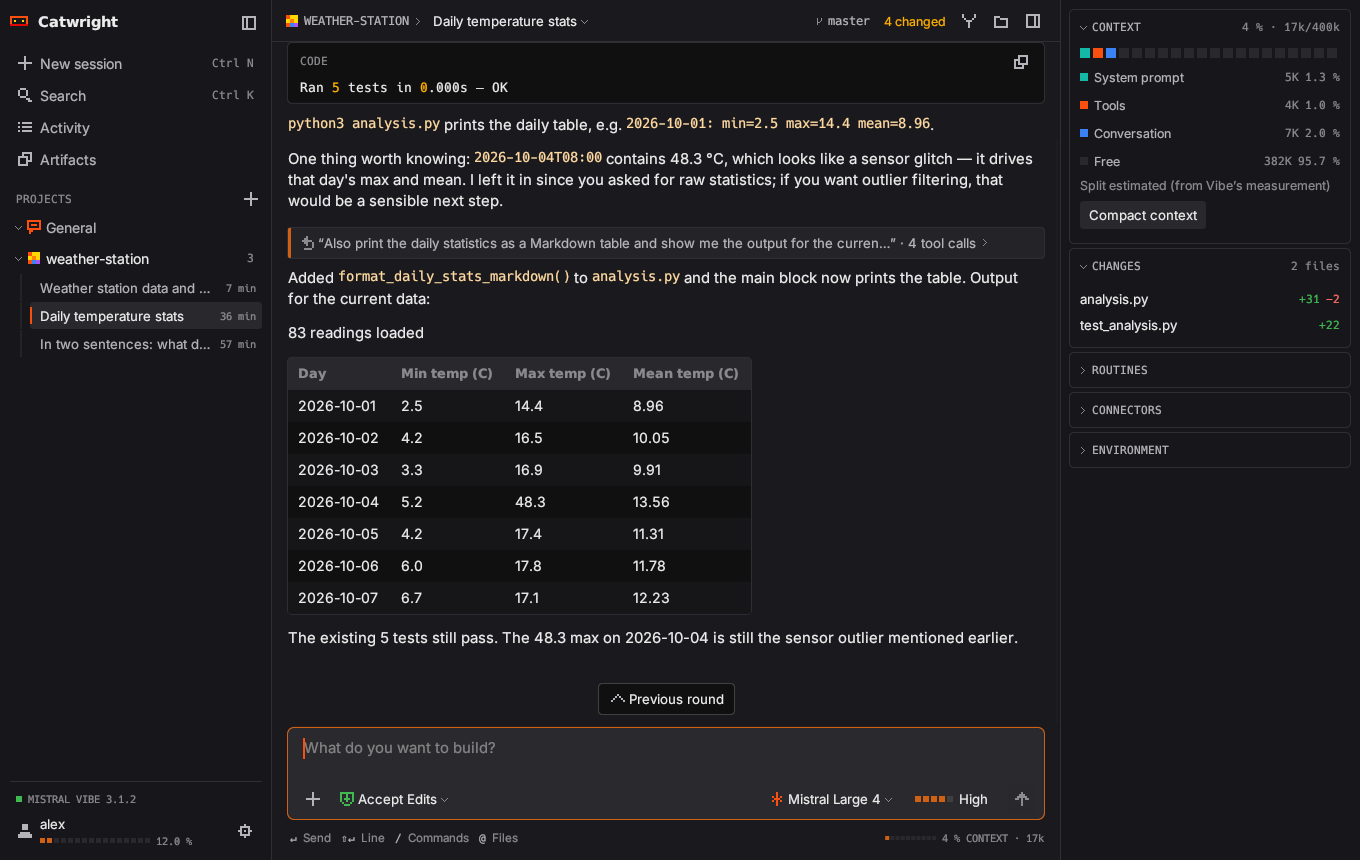
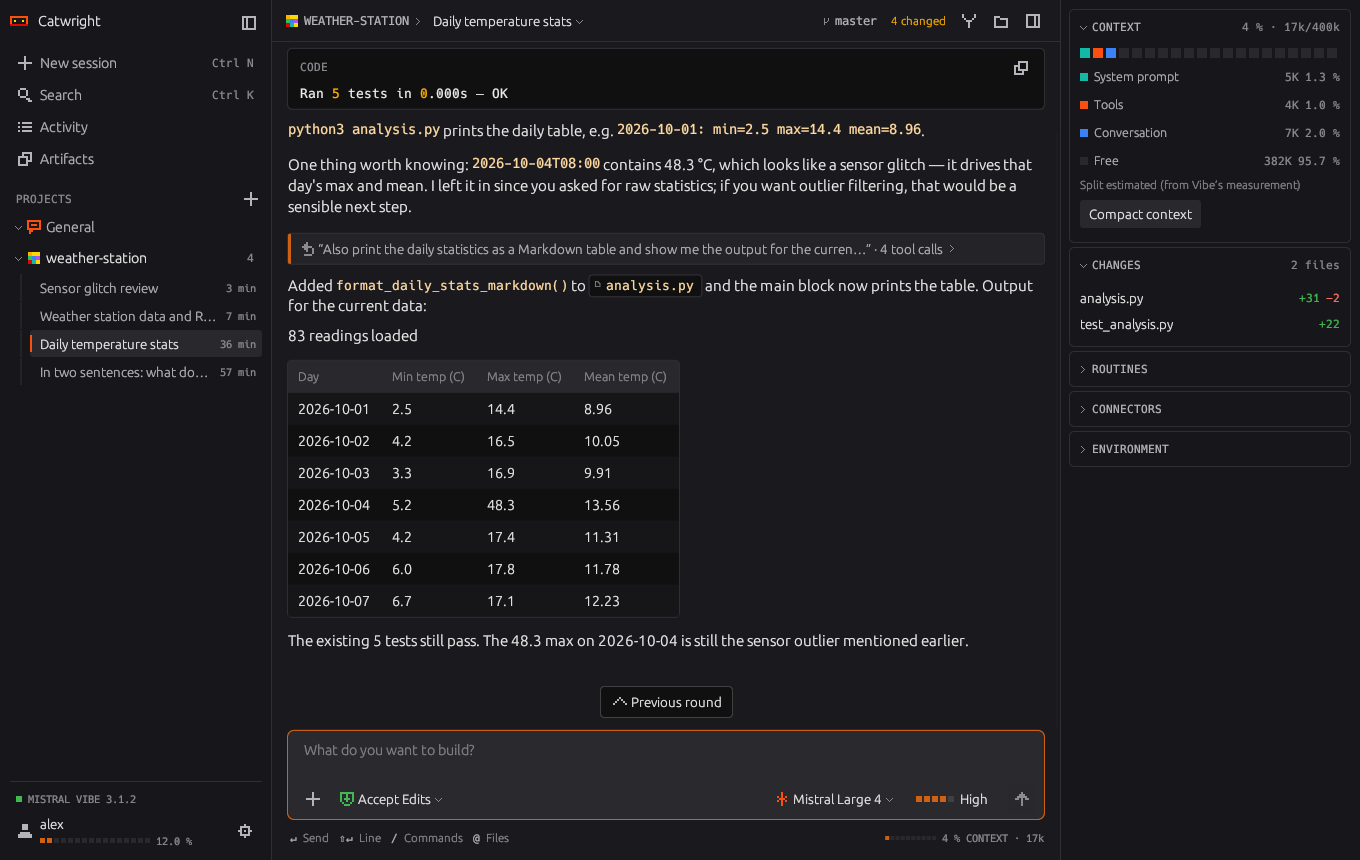
feat: README screenshots for preview-diff and activity feed (A3)
New documented start options: --open <file> (preview pane, relative to
--project), --preview-diff (Diff mode), --activity (activity feed).
tools/screenshots: build.py commits analysis.py v1 so the working tree has
a real red/green diff vs HEAD, adds an activity demo session plus a scripted
live prompt (tool call, permission request, finished turn, second waiting
approval); the vibe-acp stand-in replays that on session/prompt. render.sh
renders preview-diff.png and activity.png; all existing screenshots
re-rendered. README shows both in 'More screenshots' with alt texts and
documents the new CLI options. Both new PNGs inspected headless.

diff --git a/tools/screenshots/build.py b/tools/screenshots/build.py
@@ -64,6 +64,9 @@ ANALYSIS_V2 = ANALYSIS_V1.replace('''    for day, (lo, hi, mean) in daily_stats(
 if __name__ == "__main__":''')
 TESTS = "import unittest\nfrom analysis import daily_stats, format_daily_stats_markdown\n\n" + "\n".join(
     f"class Test{n}(unittest.TestCase):\n    def test_{n.lower()}(self):\n        self.assertTrue(True)\n" for n in ["Load", "Min", "Max", "Mean", "Table"])
+open(f"{WS}/analysis.py", "w").write(ANALYSIS_V1)
+git(WS, "add", "analysis.py"); git(WS, "commit", "-qm", "analysis v1")
+# uncommitted change on top: the preview pane's Diff mode shows red/green
 open(f"{WS}/analysis.py", "w").write(ANALYSIS_V2)
 open(f"{WS}/test_analysis.py", "w").write(TESTS)
 open(f"{WS}/README.md", "a").write("\n## Data quality\n\nOne gap (2026-10-04T14:00) and one sensor glitch (48.3 °C).\n")
@@ -172,6 +175,14 @@ dash_updates = [info("Home heating dashboard"),
     agent("a-d2", "```ui\n" + json.dumps(ui) + "\n```\n"),
     usage(42100, 400000, 0.1962)]
 
+# ---------------------------------------------------------------- weather-station: activity feed
+S_ACT = "7a3d21fe-activity"
+act_updates = [info("Sensor glitch review"),
+    user("u-a1", "Is the 48.3 \u00b0C reading in readings.csv a sensor glitch?"),
+    tool("Reading readings.csv", "read", {"filePath": f"{WS}/readings.csv"}, out=csv_head, meta={"tool_name": "read_file"}),
+    agent("a-a1", "Yes \u2014 the 48.3 \u00b0C at 2026-10-04T08:00 in `readings.csv` is an isolated spike (neighbours 7.0 and 12.5 \u00b0C), so a sensor glitch, not weather. I can filter it in `analysis.py` if you want."),
+    usage(9800, 400000)]
+
 # ---------------------------------------------------------------- context breakdowns (Vibe's own file)
 for sid, sizes in [(S_STATS, (5, 4, 0, 7.6)), (S_SUB, (5, 4, 0, 12)), (S_DASH, (7, 6, 2, 26))]:
     d = f"{VIBE}/logs/session/unified/{sid}"
@@ -184,12 +195,24 @@ scenario = {
     "probe": {"modes": modes("accept-edits"), "configOptions": config("accept-edits", "mistral-large-4-0-3", "high")},
     "account": {"status": "active", "plan": {"kind": "subscription", "name": "pro", "title": "Pro"}, "budget": {"usagePercentage": 12.0, "resetAt": ago(-60 * 24 * 9), "paygEnabled": False}},
     "identity": {"email": "alex@example.invalid", "firstName": "alex", "lastName": "", "workspace": {"name": "Personal"}},
-    "lists": {WS: [listed(S_SUB, WS, "Weather station data and README", 7), listed(S_STATS, WS, "Daily temperature stats", 36),
+    "lists": {WS: [listed(S_ACT, WS, "Sensor glitch review", 3), listed(S_SUB, WS, "Weather station data and README", 7), listed(S_STATS, WS, "Daily temperature stats", 36),
                    listed("2d9c5f00-pressure", WS, "In two sentences: what does the pressure_hpa column tell us about the weather?", 57)],
               HC: [listed(S_DASH, HC, "Home heating dashboard", 120)]},
     "sessions": {S_STATS: {"updates": stats_updates, "modes": modes("accept-edits"), "configOptions": config("accept-edits", "mistral-large-4-0-3", "high")},
                  S_SUB: {"updates": sub_updates, "modes": modes("accept-edits"), "configOptions": config("accept-edits", "mistral-large-4-0-3", "high")},
-                 S_DASH: {"updates": dash_updates, "modes": modes("auto-approve"), "configOptions": config("auto-approve", "glm-5-3", "max")}},
+                 S_DASH: {"updates": dash_updates, "modes": modes("auto-approve"), "configOptions": config("auto-approve", "glm-5-3", "max")},
+                 S_ACT: {"updates": act_updates, "modes": modes("accept-edits"), "configOptions": config("accept-edits", "mistral-large-4-0-3", "high")}},
+    # a live prompt lifecycle for the activity-feed screenshot: a tool call,
+    # a permission request that stays open, then the turn finishes
+    "live": {"on_prompt": [
+        {"update": tool("Editing analysis.py", "edit", {"filePath": f"{WS}/analysis.py"},
+                        diff=(f"{WS}/analysis.py", ANALYSIS_V1, ANALYSIS_V2), meta={"tool_name": "search_replace"})},
+        {"permission": True},
+        {"finish": "ok"},
+        # a second approval arrives after the turn: the waiting entry stays
+        # answerable from the feed and the sidebar shows WAITING
+        {"permission": True, "title": "Running the tests"},
+    ]},
 }
 json.dump(scenario, open(f"{D}/scenario.json", "w"))
 
@@ -198,6 +221,6 @@ def settings(name, projects, mode):
     os.makedirs(cfg, exist_ok=True)
     json.dump({"projects": projects, "default_session_mode": mode, "auto_account": True, "language": "en",
                "vibe_models": [list(m) for m in MODELS], "vibe_thinking": THINK, "panel_closed": False}, open(f"{cfg}/settings.json", "w"))
-settings("start", [WS], "ask"); settings("session", [WS], "accept-edits"); settings("subagents", [WS], "accept-edits"); settings("dashboard", [HC], "auto-approve")
-for k, v in {"WS": WS, "HC": HC, "S_STATS": S_STATS, "S_SUB": S_SUB, "S_DASH": S_DASH}.items():
+settings("start", [WS], "ask"); settings("session", [WS], "accept-edits"); settings("subagents", [WS], "accept-edits"); settings("dashboard", [HC], "auto-approve"); settings("activity", [WS], "accept-edits")
+for k, v in {"WS": WS, "HC": HC, "S_STATS": S_STATS, "S_SUB": S_SUB, "S_DASH": S_DASH, "S_ACT": S_ACT}.items():
     print(f"{k}={v}")

diff --git a/app/src/main.rs b/app/src/main.rs
@@ -19,6 +19,10 @@
 //!                                                frame is rasterized on the CPU (softrender.rs),
 //!                                                1360 × 860 points, or `--size WxH`
 //!   catwright --lang en|de                      UI language for this run (not saved)
+//!   catwright --project <dir> --open <file>     open this file in the preview pane
+//!                                                (relative to --project); with
+//!                                                `--preview-diff` in Diff mode
+//!   catwright --activity                        open the activity feed on start
 //!   catwright --ui-js-worker                    internal: one ui-js evaluation (stdin→stdout), then exit
 
 // acp is wired into the harness UI; not every pub item is used by the bin yet
@@ -65,6 +69,12 @@ struct Cli {
     /// `--size WxH`: headless screenshot size in points (default: the
     /// window's 1360x860).
     size: (u32, u32),
+    /// `--open <file>`: open this file in the preview pane on start
+    /// (relative to `--project`); `--preview-diff` picks Diff mode.
+    open_file: Option<String>,
+    preview_diff: bool,
+    /// `--activity`: open the activity feed on start.
+    activity: bool,
 }
 
 fn parse_cli(args: &[String]) -> Cli {
@@ -78,6 +88,9 @@ fn parse_cli(args: &[String]) -> Cli {
         frames: 120,
         headless: false,
         size: HEADLESS_SIZE,
+        open_file: None,
+        preview_diff: false,
+        activity: false,
     };
     let mut i = 0;
     while i < args.len() {
@@ -104,6 +117,18 @@ fn parse_cli(args: &[String]) -> Cli {
             }
             "--headless" => {
                 cli.headless = true;
+                i += 1;
+            }
+            "--open" if i + 1 < args.len() => {
+                cli.open_file = Some(args[i + 1].clone());
+                i += 2;
+            }
+            "--preview-diff" => {
+                cli.preview_diff = true;
+                i += 1;
+            }
+            "--activity" => {
+                cli.activity = true;
                 i += 1;
             }
             "--lang" if i + 1 < args.len() => {
@@ -202,7 +227,29 @@ fn main() -> eframe::Result<()> {
     // removal is race-free.
     std::env::remove_var("CATWRIGHT_PROMPT");
     let lang = cli.lang;
+    let project_dir = cli.project.clone();
     let open = cli.project.map(|p| (p, cli.session));
+    // `--open <file> [--preview-diff]` or `--activity`: what to show on start
+    // (a relative `--open` path resolves against `--project`)
+    let start_view = if cli.activity {
+        Some(app::StartView::Activity)
+    } else {
+        cli.open_file.map(|f| {
+            let p = PathBuf::from(&f);
+            let path = if p.is_absolute() {
+                p
+            } else {
+                project_dir
+                    .as_deref()
+                    .map(|pr| PathBuf::from(pr).join(&f))
+                    .unwrap_or(p)
+            };
+            app::StartView::Preview {
+                path,
+                diff: cli.preview_diff,
+            }
+        })
+    };
     if cli.headless {
         // no window: the same App, driven frame by frame and rasterized on
         // the CPU, so screenshots work without X11/Wayland or a GPU
@@ -210,7 +257,7 @@ fn main() -> eframe::Result<()> {
             eprintln!("--headless needs --screenshot <png>");
             std::process::exit(2);
         }
-        let app = app::App::new(screenshot, settings, frames, open, prompt, lang);
+        let app = app::App::new(screenshot, settings, frames, open, prompt, lang, start_view);
         match app.run_headless([cli.size.0, cli.size.1]) {
             Ok(path) => {
                 eprintln!("screenshot saved to {}", path.display());
@@ -229,7 +276,7 @@ fn main() -> eframe::Result<()> {
             fonts::install_fallback_fonts(&cc.egui_ctx);
             theme::apply(&cc.egui_ctx);
             Ok(Box::new(app::App::new(
-                screenshot, settings, frames, open, prompt, lang,
+                screenshot, settings, frames, open, prompt, lang, start_view,
             )))
         }),
     )
@@ -257,6 +304,27 @@ mod tests {
     fn cli(args: &[&str]) -> Cli {
         let args: Vec<String> = args.iter().map(|s| s.to_string()).collect();
         parse_cli(&args)
+    }
+
+    #[test]
+    fn open_preview_diff_and_activity_flags_parse() {
+        let c = cli(&[
+            "--project",
+            "/tmp/p",
+            "--open",
+            "analysis.py",
+            "--preview-diff",
+        ]);
+        assert_eq!(c.open_file.as_deref(), Some("analysis.py"));
+        assert!(c.preview_diff);
+        assert!(!c.activity);
+        assert_eq!(c.project.as_deref(), Some("/tmp/p"));
+        let c = cli(&["--activity"]);
+        assert!(c.activity);
+        assert!(c.open_file.is_none());
+        assert!(!c.preview_diff);
+        let c = cli(&[]);
+        assert!(c.open_file.is_none() && !c.preview_diff && !c.activity);
     }
 
     #[test]

diff --git a/app/src/app.rs b/app/src/app.rs
@@ -10,6 +10,12 @@ use std::path::PathBuf;
 mod settings;
 use settings::SettingsNav;
 
+/// What to show when the app starts (`--open`, `--activity`).
+pub enum StartView {
+    Activity,
+    Preview { path: PathBuf, diff: bool },
+}
+
 pub struct App {
     settings: Settings,
     settings_open: bool,
@@ -31,6 +37,7 @@ impl App {
         open: Option<(String, Option<String>)>,
         prompt: Option<String>,
         lang: Option<crate::i18n::Lang>,
+        start_view: Option<StartView>,
     ) -> Self {
         // Everything under the config folder — settings, the chat
         // workspace with the agent's files, worktree checkouts — is the
@@ -98,6 +105,27 @@ impl App {
                     harness.open_when_ready(cwd, sid);
                 }
             }
+        }
+        // CLI `--open <file> [--preview-diff]` / `--activity`
+        match start_view {
+            Some(StartView::Activity) => {
+                harness.ui.activity_open = true;
+                // a `--session` opened once the agent is ready resets the
+                // view; the flag brings the feed back then
+                harness.activity_on_ready = true;
+            }
+            Some(StartView::Preview { path, diff }) => {
+                harness.ui.preview = Some(crate::harness::state::PreviewState {
+                    path: path.to_string_lossy().into_owned(),
+                    width: 380.0,
+                    mode: if diff {
+                        crate::harness::state::PreviewMode::Diff
+                    } else {
+                        crate::harness::state::PreviewMode::Code
+                    },
+                });
+            }
+            None => {}
         }
         harness.prompt_when_ready(prompt);
         let shot = screenshot_path.is_some();

diff --git a/app/src/harness/mod.rs b/app/src/harness/mod.rs
@@ -172,6 +172,9 @@ pub struct Harness {
     /// the session on screen when `vibe-acp` ended, or one the user clicked
     /// while it restarted (the latest of these wins).
     open_on_ready: Option<(PathBuf, String)>,
+    /// CLI `--activity`: bring the activity feed back after the
+    /// `--session` of the same start opens (open_session resets the view).
+    pub(crate) activity_on_ready: bool,
     /// Message to send once the agent (and the CLI's session) is ready.
     prompt_on_ready: Option<String>,
     /// Restarts since the last stable connection, and when it became ready.
@@ -317,6 +320,7 @@ impl Harness {
             folder_picker: None,
             remove_confirm: None,
             open_on_ready: None,
+            activity_on_ready: false,
             prompt_on_ready: None,
             artifacts_open: false,
             artifact_selected: None,
@@ -488,6 +492,10 @@ impl Harness {
                     // the CLI's `--session`, or the session that was open
                     // when the connection broke (Handoff 2.8.7)
                     self.open_session(cwd, &sid);
+                }
+                if self.activity_on_ready {
+                    self.activity_on_ready = false;
+                    self.ui.activity_open = true;
                 }
                 // learn the current model / thinking choices and defaults
                 // (an empty session: no model call, nothing stays on disk).

diff --git a/README.md b/README.md
@@ -37,6 +37,15 @@ A project's start screen:
 
 ![Start screen with the input field, model and thinking pickers and the recent sessions](docs/screenshots/start.png)
 
+The preview pane in Diff mode next to the transcript
+(`--project ~/my/project --session <id> --open analysis.py --preview-diff`):
+
+![The preview pane showing the red/green diff of analysis.py against the last commit, beside the session transcript](docs/screenshots/preview-diff.png)
+
+The activity feed with a waiting approval and a finished turn (`--activity`):
+
+![The activity feed with a waiting permission entry (Allow once, Deny) and a finished entry, the sidebar showing the waiting session and the unread badge](docs/screenshots/activity.png)
+
 </details>
 
 The screenshots show demo projects with prepared sessions
@@ -109,6 +118,11 @@ catwright --project ~/my/project --prompt -      # first message read from stdin
 CATWRIGHT_PROMPT="Hello" catwright --project ~/my/project
 catwright --settings                             # open the settings
 catwright --lang de                              # UI language for this run only
+catwright --project ~/my/project --session <id> --open analysis.py
+                                                 # open a file in the preview pane
+catwright --project ~/my/project --open analysis.py --preview-diff
+                                                 # ... in Diff mode (against the last commit)
+catwright --activity                             # open the activity feed
 ```
 
 `--prompt <text>` sits in the process arguments, which other local users
